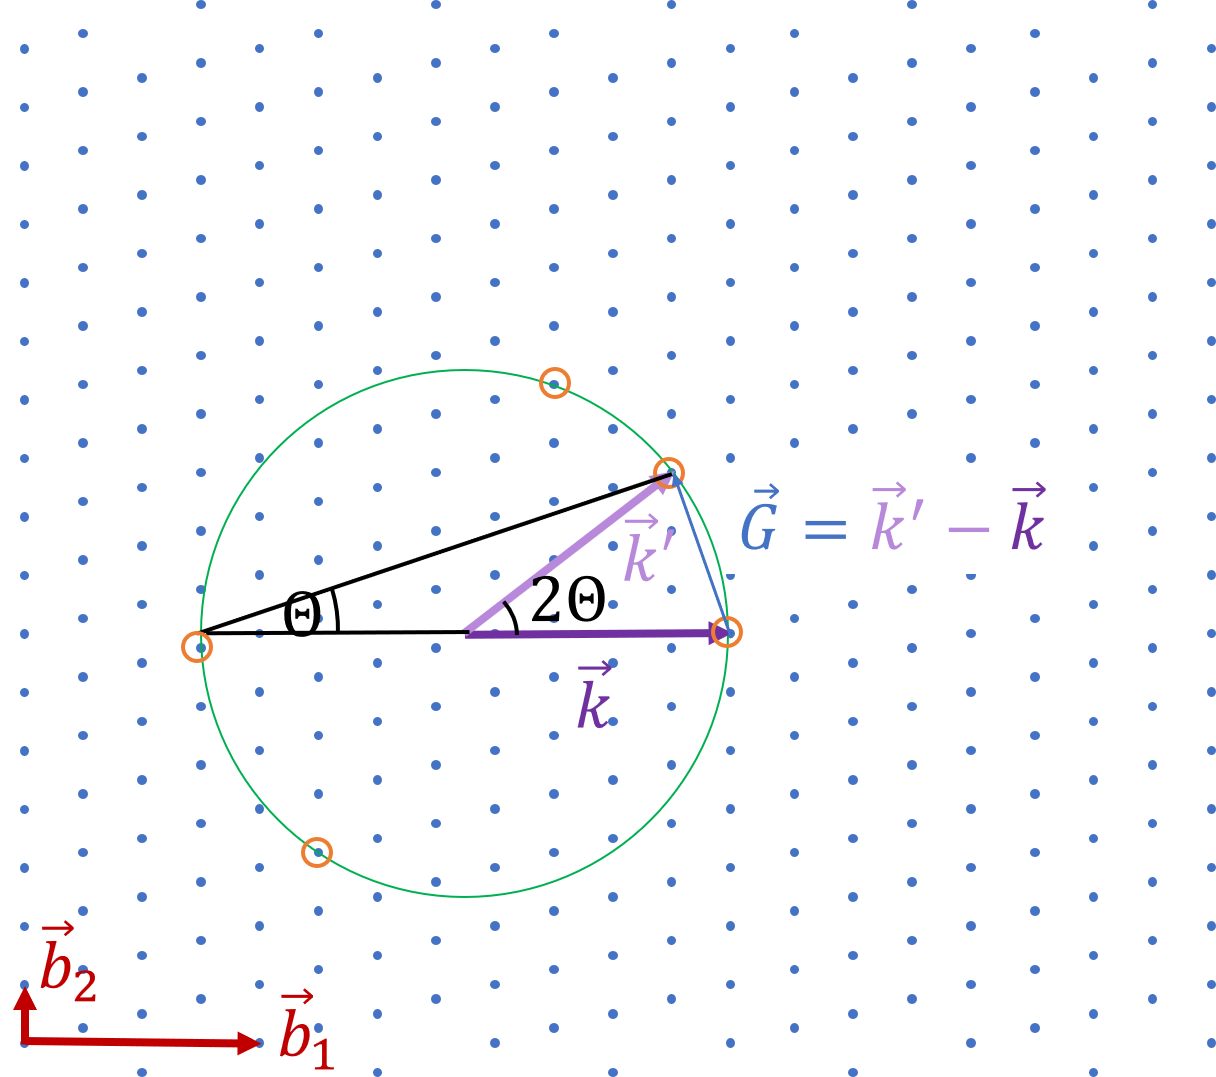
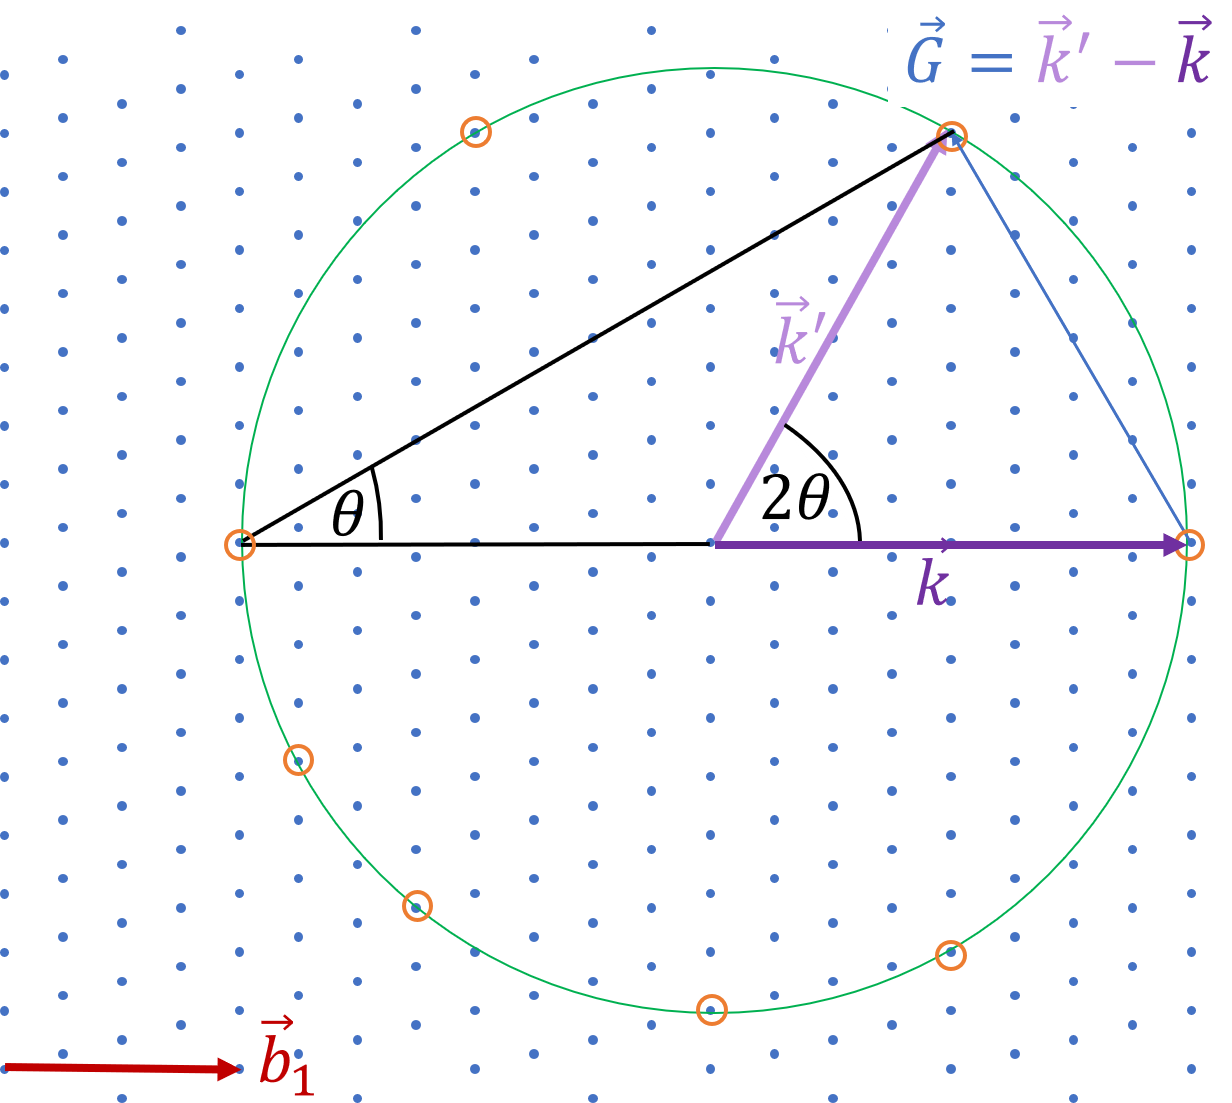
Korrekturen

diff --git a/Uebung05.md b/Uebung05.md
@@ -154,7 +154,7 @@ Die Anordnung der Atome in der Basis bestimmt die relativen Intensitäten der ve
 ## Aufgabe 6:
 
 
->__6.__ Eine der Darstellungen von Beugungsbedingungen (Bragg-Bedingungen) lautet $\Delta k=G$. Wie wird diese Bedingung anschaulich in der Ewaldkonstruktion dargestellt? Zeichnen Sie in die folgende Abbildung der reziproken Gitterpunkte die Ewaldkonstruktion für einen einfallenden Wellenvektor mit $\vec{k}=1\cdot \vec{b}_1$  . Markieren sie die reziproken Gitterpunkte, an denen die Bragg-Bedingung erfüllt ist.
+>__6.__ Eine der Darstellungen von Beugungsbedingungen (Bragg-Bedingungen) lautet $\Delta k=G$. Wie wird diese Bedingung anschaulich in der Ewaldkonstruktion dargestellt? Zeichnen Sie in die folgende Abbildung der reziproken Gitterpunkte die Ewaldkonstruktion für einen einfallenden Wellenvektor mit $\vec{k}=2\cdot \vec{b}_1$  . Markieren sie die reziproken Gitterpunkte, an denen die Bragg-Bedingung erfüllt ist.
 
 ![reziprokes Gitter für Ewaldkonstruktion](media/VorlageEwaldkonstruktion.png)
 
